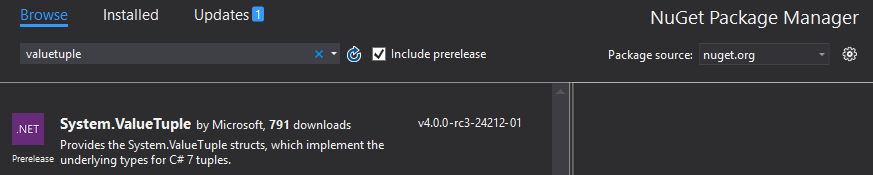
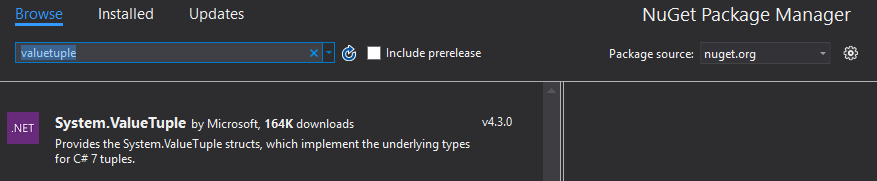
Updating quickstart guide for tuples (#17734)

diff --git a/docs/features/tuples.md b/docs/features/tuples.md
@@ -1,11 +1,11 @@
 
-Quickstart guide for tuples (C# 7.0)
+Quickstart guide for tuples (C# 7.0 and Visual Basic 15)
 ------------------------------------
-1. Install dev15 preview 4
-2. Start a C# project
-3. Add a reference to the `System.ValueTuple` package from NuGet (pre-release)
+1. Install VS2017
+2. Start a C# or VB project
+3. Add a reference to the `System.ValueTuple` package from NuGet
 ![Install the ValueTuple package](img/install-valuetuple.png)
-4. Use tuples:
+4. Use tuples in C#:
 
     ```C#
 public class C
@@ -18,14 +18,36 @@ public class C
         public static void Main()
         {
                 var pair1 = (42, "hello");
-                Console.Write(Method(pair1).message);
+                System.Console.Write(Method(pair1).message);
         
                 var pair2 = (code: 43, message: "world");
-                Console.Write(pair2.message);
+                System.Console.Write(pair2.message);
         }
 }
     ```
-5. Use deconstructions: see the [deconstruction page](deconstruction.md)
+    
+5. Or use tuples in VB:
+
+    ```VB
+Public Class C
+        Public Shared Function Method(x As (Integer, String)) As (code As Integer, message As String)
+                Return x
+        End Function
+
+        Public Shared Sub Main()
+                Dim x = (42, "hello")
+                System.Console.Write(C.Method(x).message)
+        
+                Dim pair2 = (code:=43, message:="world")
+                System.Console.Write(pair2.message)
+        End Sub
+End Class
+    ```
+
+6. Use deconstructions (C# only): see the [deconstruction page](deconstruction.md)
+
+Without the `System.ValueTuple` package from NuGet, the compiler will produce an error:
+``error CS8179: Predefined type 'System.ValueTuple`2' is not defined or imported``
 
 Design
 ------
